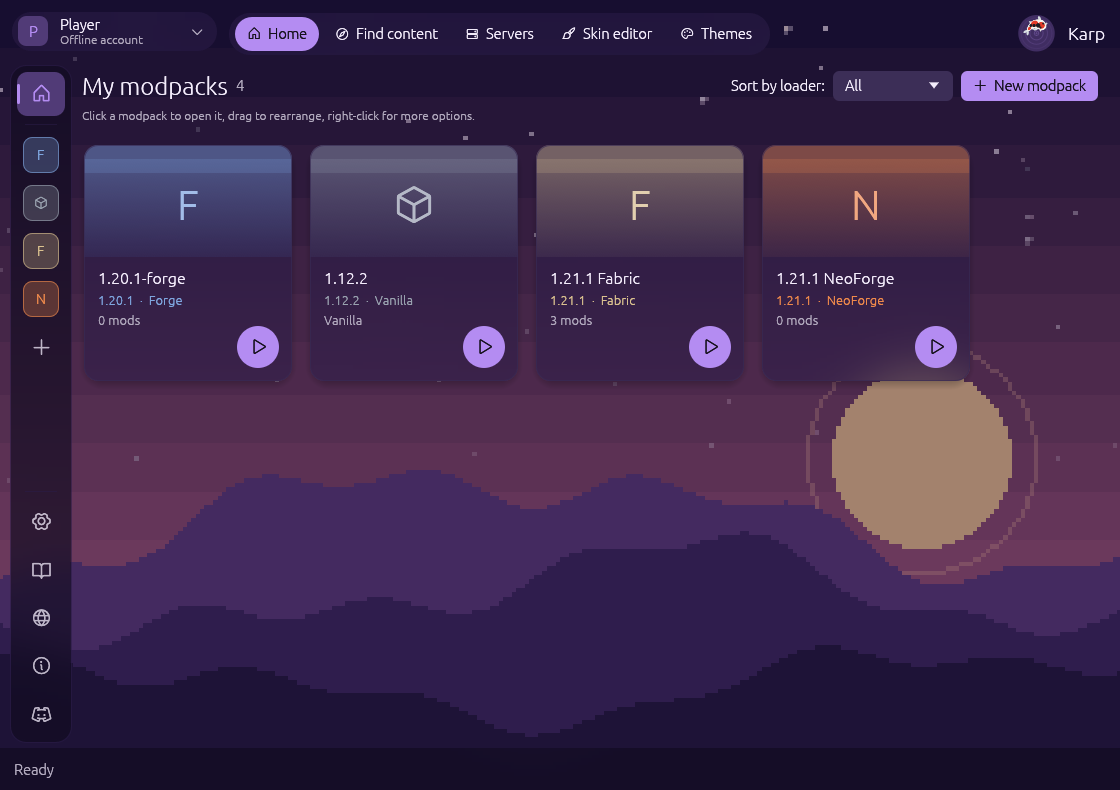
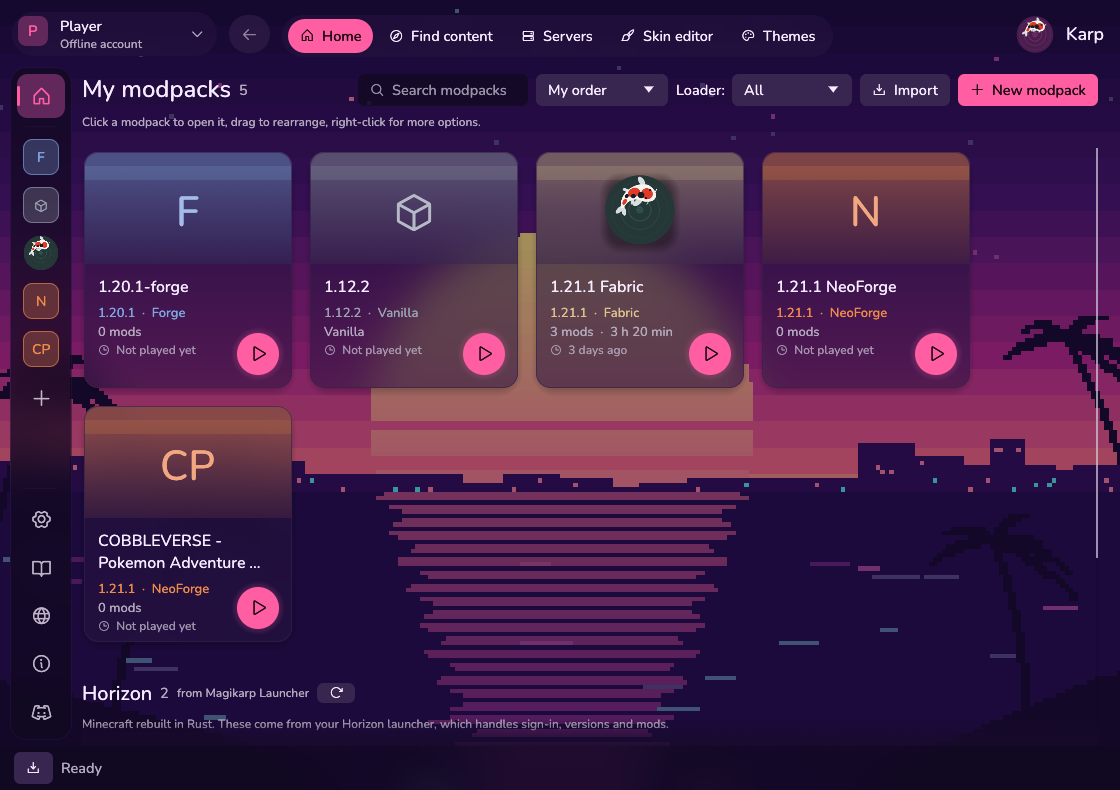
Update README for the first test builds
New logo and screenshots, and the feature list brought up to date: Quilt,
Microsoft sign-in, servers, skin editor, mod check, share codes, imports,
Horizon and more. Points testers at Issues for reports.

Claude-Session: https://claude.ai/code/session_01TSZJ1wpKgHpQfiW4UBz99s

diff --git a/README.md b/README.md
@@ -1,12 +1,12 @@
-<p align="center"><img src="docs/logo.png" alt="Karp Launcher logo: a koi swimming over rippling water" width="140"></p>
+<p align="center"><img src="docs/logo.png" alt="Karp Launcher logo: a letter K made of a white stem and a koi" width="140"></p>
 
 # Karp Launcher
 
 A fast, tidy Minecraft launcher and mod manager, built in Rust.
 
-**Status:** early development. The launcher already installs and plays modded Minecraft; the code will be published here once the core is stable.
+**Status:** in testing. Test builds for Windows are going out to a small group of testers; the code will be published here once the core is stable. Found a problem in a test build? Please [open an issue](../../issues).
 
-![My modpacks, in the Dusk theme](docs/home.png)
+![My modpacks, in the Neon Coast theme](docs/home.png)
 
 ## Why
 
@@ -14,15 +14,32 @@ Existing mod platforms and launchers are slow and cluttered. This project aims t
 
 ## What it does today
 
-- **Loaders:** Vanilla (old and new versions), Fabric, NeoForge and Forge
+**Playing**
+- **Loaders:** Vanilla (old and new versions), Fabric, Quilt, NeoForge and Forge
 - **No Java setup:** the correct Java runtime is downloaded automatically
-- **Modpacks:** separate modpacks, each with its own version, loader, content and settings; rename, clone, reorder, delete, desktop shortcuts
-- **Find content:** search Modrinth for mods, modpacks, resource packs and shaders, filtered to what fits the chosen modpack, with full project pages in the app
-- **Dependencies and updates:** required mods are installed automatically; check for updates and update everything at once
-- **Switch mods off** without removing them, for tracking down crashes
-- **Import and export** modpacks as standard `.mrpack` files
-- **Shared game settings:** set FOV, auto-jump, key binds and more once, and every modpack starts with them
-- **Themes:** built-in looks with animated backgrounds and frosted panels, plus your own themes, shareable as `.karptheme` files
+- **Microsoft sign-in** through the official Microsoft/Xbox flow, or offline names for single player
+- **Horizon:** modpacks from an installed Horizon launcher show up and start from Karp
+
+**Modpacks**
+- Separate modpacks, each with its own version, loader, content, memory and settings; pin, reorder, rename, clone, desktop shortcuts
+- **Find content:** search Modrinth for mods, modpacks, resource packs and shaders, filtered to what fits the chosen modpack, with full project pages and galleries in the app, and a download queue
+- **Dependencies and updates:** required mods are installed automatically; update mods one by one, or follow a Modrinth modpack's own versions and move between them
+- **Mod check before playing:** catches missing, doubled, wrong-loader and clashing mods, with one-click fixes
+- **Crash helper:** reads a crash and says in plain words what most likely went wrong
+- **Share a modpack with a code** a friend pastes in, or export a standard `.mrpack` file
+- **Import** modpacks from CurseForge, Prism and the Modrinth app
+- **Worlds:** back up, restore and delete; a screenshots tab per modpack
+
+**Servers**
+- Host a server for friends from the app: Vanilla, Fabric, Quilt, NeoForge or Forge, made from scratch, from one of your modpacks, or straight from a Modrinth modpack
+- Console, who's online, one-click operator / whitelist / kick, and world backups on a timer or when the server stops
+
+![An open server](docs/server.png)
+
+**Looks and extras**
+- **Themes:** fourteen built-in looks with animated backgrounds and frosted panels, plus your own, shareable as `.karptheme` files
+- **Skin editor:** 3D preview, capes, skins from a file, a player name or a link, and a pixel painter
+- **Discord status**, disk usage, shared game settings (FOV, key binds and more, set once for every modpack)
 - **Fast:** parallel, checksum-verified downloads; nothing already on disk is downloaded again
 
 ![The Themes page](docs/themes.png)
@@ -31,16 +48,17 @@ Existing mod platforms and launchers are slow and cluttered. This project aims t
 
 - [x] Install and launch vanilla Minecraft (old and new versions)
 - [x] Automatic Java runtime download
-- [x] Fabric
-- [x] NeoForge and Forge
+- [x] Fabric, Quilt, NeoForge and Forge
 - [x] Search and install from Modrinth (mods, modpacks, resource packs, shaders)
-- [x] Desktop app
-- [x] Themes
-- [ ] Microsoft account sign-in, using the official Microsoft/Xbox flow (waiting on approval; offline accounts for now)
+- [x] Desktop app and themes
+- [x] Microsoft account sign-in
+- [x] Servers page and skin editor
+- [x] Horizon modpacks through an installed Horizon launcher
+- [x] First test builds for Windows
 - [ ] CurseForge (API access applied for)
-- [ ] Horizon
-- [ ] Servers page and skin editor
+- [ ] Horizon without needing its launcher installed
 - [ ] Installer and automatic updates
+- [ ] Publish the source code
 
 ## Mod authors
 
